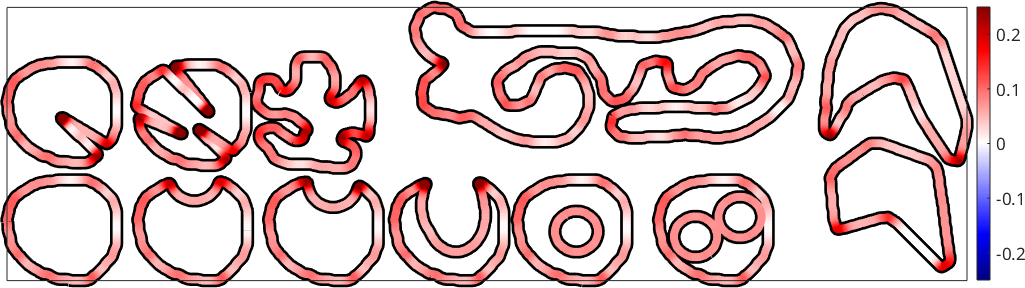
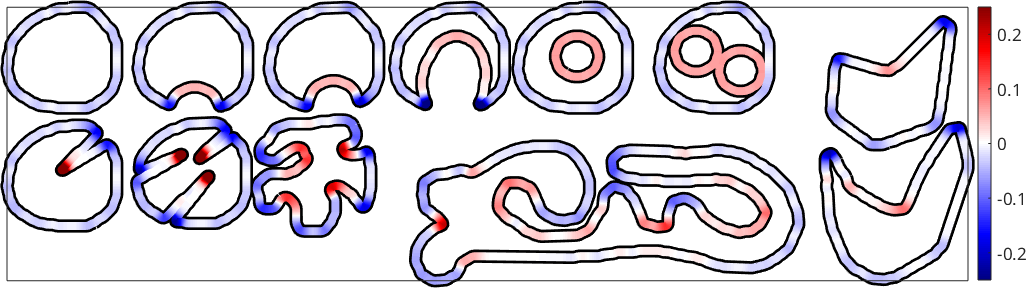
docu

diff --git a/pages/documentation_matlab/AxesAlignment.html b/pages/documentation_matlab/AxesAlignment.html
@@ -26,7 +26,7 @@ To make changes, update the MATLAB code and republish this document.
 {% highlight matlab %}
 plottingConvention.default('y↑→x');
 {% endhighlight %}
-<p>In this section we discuss how MTEX aligns coordinate systems on the screen and how to change it. In MTEX it is possible to mix different alignment. At the same time MTEX tries to be as consistent as possible, e.g. by aligning EBSD maps and pole figures with respect to the same reference directions.</p>
+<p>In this section we discuss how MTEX aligns coordinate systems on the screen and how to change it. At the same time MTEX tries to be as consistent as possible, e.g. by aligning EBSD maps and pole figures with respect to the same reference directions.</p>
 <p>Different alignments are typically used when</p>
 <div>
 <ul>
@@ -76,22 +76,27 @@ ans = plottingConvention (y←↑x)
 {% highlight matlab %}
 plottingConvention.default('y↑→x');
 {% endhighlight %}
-<h2 id="7">A Private Alignment for a Single Object</h2>
-<p>Assigning to the <code class="language-plaintext highlighter-rouge">how2plot</code> property of an object detaches it from the session frame: the object receives a private copy of the frame carrying the new convention. Other data is not affected - in particular <code class="language-plaintext highlighter-rouge">v2</code> keeps the session alignment</p>
+<h2 id="7">One Plot in a Different Alignment</h2>
+<p>A single plot may be drawn in any convention by passing it as an option. Nothing else is affected - not the data, not the session, not the plot after it</p>
 {% highlight matlab %}
-v1.how2plot = plottingConvention('z↑→x');
-
-% plot v1 and v2 in separate plots - both hemispheres are shown, labeled
-% upper / lower relative to the viewing direction of each object's own
-% convention
-plot(v1,'label','v_1')
+plot(v1,'how2plot','z↑→x','label','v_1')
 nextAxis
 plot(v2,'label','v_2')
 {% endhighlight %}
 <center>
 {% include inline_image.html file="AxesAlignment_03.png" %}
 </center>
-<p>This is a deliberate change compared to MTEX 6, where <code class="language-plaintext highlighter-rouge">how2plot</code> was a shared handle and changing it on one vector silently changed it on all others. If the intent is "change it everywhere", say so by changing the session frame via <code class="language-plaintext highlighter-rouge">plottingConvention.default</code> as above.</p>
+<p>The convention may be given as a <code class="language-plaintext highlighter-rouge"><a href="plottingConvention.html">plottingConvention</a></code> or, as above, by the string that names it. A plotting convention belongs to a reference frame and never to a data object, so there are exactly three ways to say how something should be aligned</p>
+<div>
+<ul>
+<li>for one plot, <code class="language-plaintext highlighter-rouge">plot(v1,'how2plot','z&uarr;&rarr;x')</code> as above</li>
+<li>for the session, <code class="language-plaintext highlighter-rouge">plottingConvention.default('z&uarr;&rarr;x')</code>
+</li>
+<li>by moving the data into a named frame that carries its own convention, <code class="language-plaintext highlighter-rouge">v1.frame = specimenFrame.rolling</code>
+</li>
+</ul>
+</div>
+<p>Assigning a convention to the data itself - <code class="language-plaintext highlighter-rouge">ebsd.how2plot = 'z&uarr;&rarr;x'</code> - is not one of them, and <code class="language-plaintext highlighter-rouge">how2plot</code> is read only on every class but <a href="referenceFrame.referenceFrame.html">referenceFrame</a>. It used to attach a private copy of the session frame to that one object, which then looked exactly like the session frame in every display while silently no longer following it.</p>
 <h2 id="9">Named Reference Frames</h2>
 <p>Frames have an identity and named axes. The frame of the instrument is <a href="specimenFrame.measurement.html"><code class="language-plaintext highlighter-rouge">specimenFrame.measurement</code></a> with the axes <code class="language-plaintext highlighter-rouge">X1</code>, <code class="language-plaintext highlighter-rouge">Y1</code>, <code class="language-plaintext highlighter-rouge">Z1</code> in Oxford notation. For rolled sheets the frame <a href="specimenFrame.rolling.html"><code class="language-plaintext highlighter-rouge">specimenFrame.rolling</code></a> names its axes <code class="language-plaintext highlighter-rouge">RD</code>, <code class="language-plaintext highlighter-rouge">TD</code>, <code class="language-plaintext highlighter-rouge">ND</code> and comes with the typical rolling geometry convention, RD to the north and TD to the west</p>
 {% highlight matlab %}
@@ -99,12 +104,10 @@ specimenFrame.rolling
 {% endhighlight %}
 
 {% highlight plaintext %}
-ans = specimenFrame
-  name: rolling
+ans = specimenFrame (rolling, TD←RD↑)
   RD: 1,0,0
   TD: 0,1,0
   ND: 0,0,1
-  how2plot: TD←RD↑
 {% endhighlight %}
 <p>Any specimen frame can supply the session default. After</p>
 {% highlight matlab %}
@@ -117,11 +120,10 @@ plot(v2,'upper','label','v_2')
 <center>
 {% include inline_image.html file="AxesAlignment_04.png" %}
 </center>
-<p>We return to the generic specimen frame for the rest of this section. Note that this does not affect <code class="language-plaintext highlighter-rouge">v1</code>, which still carries the private frame it received above - assigning <code class="language-plaintext highlighter-rouge">[]</code> to its <code class="language-plaintext highlighter-rouge">how2plot</code> releases the private frame, so <code class="language-plaintext highlighter-rouge">v1</code> follows the session default again</p>
+<p>We return to the generic specimen frame for the rest of this section</p>
 {% highlight matlab %}
 specimenFrame.specimen.makeDefault
 plottingConvention.default('y↑→x');
-v1.how2plot = [];
 {% endhighlight %}
 <p>The annotation of the spherical plots is a function handle stored in the <code class="language-plaintext highlighter-rouge">pfAnnotations</code> preference. By default it draws the axes of the session's frame with their names; it can be replaced by any custom annotation or switched off for the entire session by</p>
 {% highlight matlab %}
@@ -135,8 +137,9 @@ plot(v1,'upper','label','v_1','noLabel')
 {% include inline_image.html file="AxesAlignment_05.png" %}
 </center>
 <h2 id="14">Imported Data</h2>
-<p>Imported data may come with its own idea how it wants to be plotted on screen. Such a convention applies to the whole session: the session frame adopts it and the imported data joins the session frame.</p>
+<p>Imported data follows the session convention like everything else - a file does not decide how the rest of your session is drawn. What an import may do is state <b>which frame</b> the data lives in: data from an Oxford instrument lands in <code class="language-plaintext highlighter-rouge">specimenFrame.measurement</code>, whose axes appear as <code class="language-plaintext highlighter-rouge">X1</code>, <code class="language-plaintext highlighter-rouge">Y1</code>, <code class="language-plaintext highlighter-rouge">Z1</code> in the display of the object.</p>
 {% highlight matlab %}
+plottingConvention.default('y↑→x');
 mtexdata dubna
 
 pf.how2plot
@@ -187,17 +190,17 @@ cs = crystalSymmetry
   a, b, c        : 1, 1, 1          
   reference frame: X||a, Y||b*, Z||c
 {% endhighlight %}
-<h2 id="17">The Reference Frame on EBSD Maps</h2>
+<p>A pole figure is not crystal framed, although it is computed from crystal directions. An orientation is the coordinate transform from its right frame to its left one, so <code class="language-plaintext highlighter-rouge">ori * h</code> lands in the left - the specimen - frame, and a pole figure is aligned by the specimen convention.</p>
+<h2 id="18">The Reference Frame on EBSD Maps</h2>
 <p>On an EBSD or grain map the alignment in use is indicated within the scale bar, labeled with the axes names of the frame the map lives in. Every axis with a component within the screen plane becomes an arrow, the axis along the viewing direction becomes a circled dot if it points out of the screen and a circled cross if it points into it.</p>
 {% highlight matlab %}
 mtexdata titanium
 
-ebsd.how2plot = 'y↑→x';
-plot(ebsd,ebsd.orientations,'refFrame','on','figSize','small')
+plot(ebsd,ebsd.orientations,'how2plot','y↑→x','refFrame','on','figSize','small')
 {% endhighlight %}
 
 {% highlight plaintext %}
-ebsd = EBSDhex (y↓→x)
+ebsd = EBSDhex (y↑→x)
  
  Phase  Orientations           Mineral         Color  Symmetry  Crystal reference frame
      0    8100 (99%)  Titanium (Alpha)  LightSkyBlue       622        X||a, Y||b*, Z||c
@@ -213,8 +216,8 @@ ebsd = EBSDhex (y↓→x)
 </center>
 <p>Changing the plotting convention turns the indicator along with the map</p>
 {% highlight matlab %}
-ebsd.how2plot = 'x←↑y';
-plot(ebsd,ebsd.orientations,'refFrame','on','figSize','small')
+figure
+plot(ebsd,ebsd.orientations,'how2plot','y←↑x','refFrame','on','figSize','small')
 {% endhighlight %}
 <center>
 {% include inline_image.html file="AxesAlignment_09.png" %}
@@ -222,8 +225,7 @@ plot(ebsd,ebsd.orientations,'refFrame','on','figSize','small')
 <p>The indicator may be switched off for a single plot by the option <code class="language-plaintext highlighter-rouge">'refFrame','off'</code> or for the entire session by <code class="language-plaintext highlighter-rouge">setMTEXpref('showRefFrame','off')</code>
 </p>
 {% highlight matlab %}
-ebsd.how2plot = 'y↑→x';
-plot(ebsd,ebsd.orientations,'refFrame','off','figSize','small')
+plot(ebsd,ebsd.orientations,'how2plot','y↑→x','refFrame','off','figSize','small')
 {% endhighlight %}
 <center>
 {% include inline_image.html file="AxesAlignment_10.png" %}

diff --git a/pages/documentation_matlab/BoundaryCurvature.html b/pages/documentation_matlab/BoundaryCurvature.html
@@ -23,7 +23,7 @@ To make changes, update the MATLAB code and republish this document.
 <div>
 <!--introduction-->
 <!--/introduction-->
-<p>The curvature of a curve is defined by fitting locally a circle and taking one over its radius. Hence, a straight line will have curvature 0 and a circle of radius \(2\) will have constant curvature \(1/2\) everywhere. Hence, the unit of the curvature computed in MTEX is one over the unit of the EBSD coordinates which is usually 1/&micro;m. Let us demonstrate boundary curvature use some artificial grain shapes</p>
+<p>The curvature of a curve is defined by fitting locally a circle and taking one over its radius. Hence, a straight line will have curvature 0 and a circle of radius \(2\) will have constant curvature \(1/2\) everywhere. Hence, the unit of the curvature computed in MTEX is one over the unit of the EBSD coordinates which is usually 1/&micro;m. Let us demonstrate boundary curvature using some artificial grain shapes</p>
 {% highlight matlab %}
 % import the artificial grain shapes
 mtexdata testgrains silent
@@ -31,7 +31,7 @@ mtexdata testgrains silent
 % select and smooth a few interesting grains
 grains = smoothBoundary(grains('id',[2 3 9 11 15 16 18 23 31 33 38 40]),10);
 {% endhighlight %}
-<p>Therefore, we first extract all boundary segments and colorize them according to their curvature.</p>
+<p>Therefore, we first extract all boundary segments and colorize them according to their <a href="grainBoundary.curvature.html"><code class="language-plaintext highlighter-rouge">curvature</code></a>.</p>
 {% highlight matlab %}
 % extract boundary segments
 gB = grains.boundary;
@@ -52,11 +52,45 @@ mtexColorbar
 <center>
 {% include inline_image.html file="BoundaryCurvature_01.png" %}
 </center>
-<p>Note that all the curvature values are positive. This always happens if the curvature is computed for multiple grains at one. If we consider single grains and compute the curvature of single grain boundaries the sign of the values indicates whether the grain boundary is convex for concave with respect to the specific grain.</p>
+<h2 id="3">The Sign of the Curvature</h2>
+<p>The curvature is signed, and the sign tells which of the two adjacent grains the boundary bulges into. Boundary segments are stored in walk order with the grain in the first column of <code class="language-plaintext highlighter-rouge">gB.grainId</code> lying to the left of the walk direction - see <a href="BoundaryMisorientations.html">boundary misorientations</a>. Accordingly a <b>positive</b> curvature means the boundary bulges into the grain in the <b>second</b> column, a negative one that it bulges into the grain in the <b>first</b> column.</p>
+<p>Every grain plotted above is an island inside one large surrounding grain, grain 44, and along their outer boundaries that surrounding grain is the one stored in the first column</p>
+{% highlight matlab %}
+grains('id',2).boundary.grainId(1:5,:)
+{% endhighlight %}
+
+{% highlight plaintext %}
+ans =
+    44     2
+    44     2
+    44     2
+    44     2
+    44     2
+{% endhighlight %}
+<p>Grain 2 is a convex blob, so its boundary bulges into grain 44 everywhere - into the <b>first</b> column - and its curvature is negative throughout. Across the whole map this is why the convex parts come out blue while only the notches and the enclosed grains come out red. The enclosed grains are stored the other way round, with the enclosed grain in the first column, and being convex they bulge into the ring shaped grains 23 and 31 that surround them.</p>
+<p>Which grain sits in which column is not a property of the boundary as a set of segments, it is a property of the direction each segment is walked in. The command <a href="grainBoundary.flip.html"><code class="language-plaintext highlighter-rouge">flip</code></a> reverses that direction and swaps the two columns with it, so the curvature simply changes sign. Integrating it along a closed boundary gives the total turning of the curve, which is \(\pm 2\pi\) depending on the direction it is walked in</p>
+{% highlight matlab %}
+gB2 = grains('id',2).boundary;
+gB2flipped = flip(gB2);
+
+[sum(gB2.curvature .* gB2.segLength), ...
+  sum(gB2flipped.curvature .* gB2flipped.segLength)] ./ (2*pi)
+{% endhighlight %}
+
+{% highlight plaintext %}
+ans =
+   -1.0199    1.0199
+{% endhighlight %}
+<h2 id="5">Curvature With Respect to a Specific Grain</h2>
+<p>Selecting a single grain does not change the storage order - the segments of <code class="language-plaintext highlighter-rouge">grains(k).boundary</code> come as they are stored, and the grain we asked for may sit in either column. In order to read the curvature as convex or concave with respect to one specific grain we flip exactly those segments that have it in the second column. Then that grain lies to the left everywhere, a positive curvature marks a convex piece of it and a negative one a notch.</p>
 {% highlight matlab %}
 for k = 1:length(grains)
 
   gB = grains(k).boundary;
+
+  % put the grain itself into the first column
+  gB = flip(gB, gB.grainId(:,2) == grains(k).id);
+
   plot(gB,'linewidth',10,'micronbar','off');
   hold on
   plot(gB,gB.curvature,'linewidth',6);
@@ -71,6 +105,35 @@ drawNow(gcm,'figSize',getMTEXpref('figSize'))
 <center>
 {% include inline_image.html file="BoundaryCurvature_02.png" %}
 </center>
+<p>The outer boundaries are now predominantly red, i.e. convex with respect to the grain they belong to, and the boundaries of the enclosed grains have turned blue - seen from the ring shaped grains 23 and 31 they are concave.</p>
+<h2 id="7">Undefined Segments and Smoothing</h2>
+<p>The curvature of a segment is computed from the circle through its own midpoint and the midpoints of its two neighbours within the same chain. A segment at the end of an open chain has a neighbour on one side only and therefore no curvature - those segments come out <code class="language-plaintext highlighter-rouge">NaN</code>. All chains above are closed, so nothing is undefined there, but an arbitrary subset of segments is in general no longer closed</p>
+{% highlight matlab %}
+gB = grains.boundary;
+sum(isnan(gB(1:100).curvature))
+{% endhighlight %}
+
+{% highlight plaintext %}
+ans =
+     2
+{% endhighlight %}
+<p>These raw values are then smoothed along the chain. The number of smoothing passes is the second argument and defaults to 50. Without any smoothing the curvature follows the individual segment midpoints and is correspondingly noisy</p>
+{% highlight matlab %}
+gB = grains('id',15).boundary;
+
+plot(gB.arcLength,gB.curvature(0),'linewidth',1)
+hold on
+plot(gB.arcLength,gB.curvature,'linewidth',2)
+hold off
+
+legend('no smoothing','50 smoothing passes')
+xlabel(['arc length in ' gB.scanUnit])
+ylabel(['curvature in 1/' gB.scanUnit])
+{% endhighlight %}
+<center>
+{% include inline_image.html file="BoundaryCurvature_03.png" %}
+</center>
+<h2 id="9">Curvature of a Real EBSD Map</h2>
 <p>Finally we illustrate the usage of the <a href="grainBoundary.curvature.html"><code class="language-plaintext highlighter-rouge">curvature</code></a> command at a real EBSD map.</p>
 {% highlight matlab %}
 % import data and reconstruct grains
@@ -86,16 +149,20 @@ hold on
 % plot grain boundaries
 plot(grains.boundary,'linewidth',4)
 
-% colorize the grain boundaries of the grain at position 596,466 according
-% to curvature
-plot(grains(596,466).boundary,grains(596,466).boundary.curvature(5),'linewidth',6)
+% colorize the grain boundary of the grain at position 596,466 according to
+% curvature, with the grain itself on the left so that convex is positive
+grain = grains(596,466);
+gB = flip(grain.boundary, grain.boundary.grainId(:,2) == grain.id);
+
+plot(gB,gB.curvature(5),'linewidth',6)
 hold off
+
 mtexColorMap('blue2red')
-setColorRange(0.1*[-1,1])
+setColorRange(0.05*[-1,1])
 mtexColorbar
 {% endhighlight %}
 <center>
-{% include inline_image.html file="BoundaryCurvature_03.png" %}
+{% include inline_image.html file="BoundaryCurvature_04.png" %}
 </center>
 </div>
 </body>

diff --git a/pages/documentation_matlab/AnisotropicTheory.html b/pages/documentation_matlab/AnisotropicTheory.html
@@ -188,8 +188,8 @@ nu = C.PoissonRatio(p)
 {% endhighlight %}
 
 {% highlight plaintext %}
-nu = S2FunHarmonicSym (Olivin)
-  bandwidth: 4
+nu = S2FunHarmonic (Olivin)
+  bandwidth: 16
   antipodal: true
 {% endhighlight %}
 <p>we again obtain a spherical function. However, this time it is only meaningful to evaluate this function at directions perpendicular to the pulling direction <code class="language-plaintext highlighter-rouge">p</code>. Hence, a good way to visualize this function is to plot it as a <a href="S2Fun.plotSection.html">section</a> in the x/y plane</p>

diff --git a/pages/documentation_matlab/VectorDefinition.html b/pages/documentation_matlab/VectorDefinition.html
@@ -47,7 +47,7 @@ plot(v,'grid')
 </center>
 <p>Note that the alignment of the X, Y, Z axes is only a plotting convention, which can be easily changed without changing the coordinates. For a single plot pass the convention along</p>
 {% highlight matlab %}
-pC = plottingConvention('y←↑x');
+pC = plottingConvention('z←↑y');
 plot(v,'how2plot',pC,'grid')
 {% endhighlight %}
 <center>
